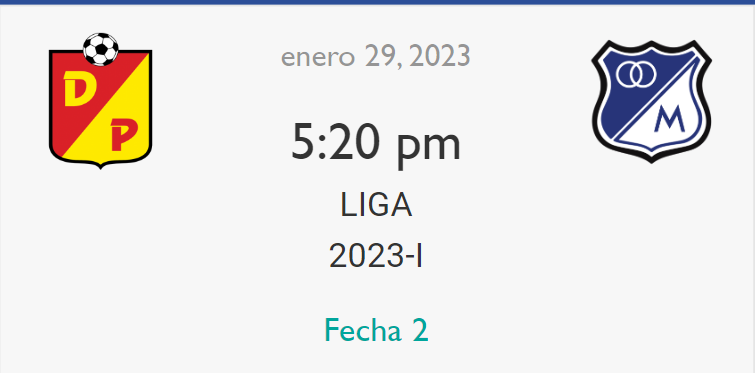
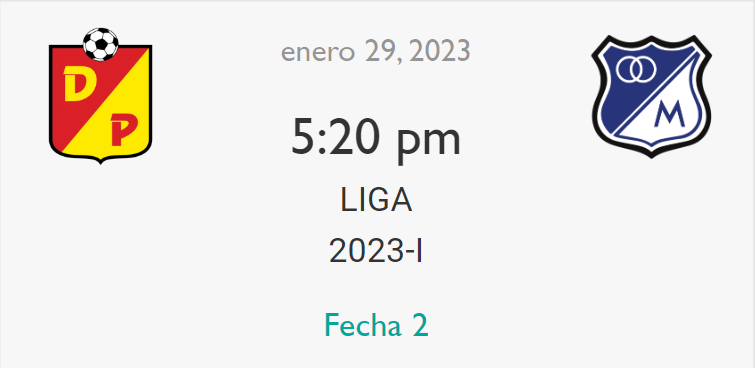
Actualización 24/01/2022 inicio de la liga

diff --git a/index.html b/index.html
@@ -4,16 +4,18 @@
     <meta charset="UTF-8">
     <meta name="viewport" content="width=device-width, initial-scale=1.0">
     <title>MILLONARIOS FC</title>
+    <link rel="website Icon" type="png" href="Imagenes/log_Millos.png">   
     <link rel="styleesheet" href="text.css">
     <link rel='stylesheet' href='https://unpkg.com/boxicons@2.0.9/css/boxicons.min.css'>
-    <link rel="stylesheet" href="/CSS/style.css">
-    <link rel="stylesheet" href="/CSS/estilos.css">
+    <link rel="stylesheet" href="CSS/style.css">
+    <link rel="stylesheet" href="CSS/estilos.css">
+    
 
 </head>
 <body>
     <!--Menu desplegable-->
     <header class="header" id="inicio">
-        <img src="/Imagenes/menu.png" alt="" class="hamburger">
+        <img src="Imagenes/menu.png" alt="" class="hamburger">
         <nav class="menu-navegacion">
             <a href="#inicio">Inicio</a>
             <a href="#historia">Historia</a>
@@ -33,7 +35,7 @@
         <section class="contenedor" id="historia">
             <h2 class="subtitulo" style="padding: 10px;">Nuestros Palmares</h2>
             <div class="contenedor-servicio">
-                <img src="../Imagenes/nomina.jpg">
+                <img src="Imagenes/plantilla2023.jpg" class="nomina">
                 <div class="checklist-servicio">
                     <div class="service">
                     <h3 class="n-service"><span class="number">15</span>Torneos Colombianos</h3>
@@ -67,21 +69,21 @@
             <div class="contenedor">
                 <h2 class="subtitulo" style="padding: 10px">Galeria</h2>
                 <div class="contenedor-galeria">
-                    <img src="/Imagenes/img10.jpg" alt="" class="img-galeria">
-                    <img src="/Imagenes/img12.jpg" alt="" class="img-galeria">
-                    <img src="/Imagenes/img11.jpg" alt="" class="img-galeria">
-                    <img src="/Imagenes/img13.jpg" alt="" class="img-galeria">
-                    <img src="/Imagenes/img14.jpg" alt="" class="img-galeria">
-                    <img src="/Imagenes/img8.jpg" alt="" class="img-galeria">
-                    <img src="/Imagenes/img7.jpg" alt="" class="img-galeria">
-                    <img src="/Imagenes/img6.jpg" alt="" class="img-galeria">
-                    <img src="/Imagenes/img9.jpg" alt="" class="img-galeria">                    
+                    <img src="Imagenes/img1.jpg" alt="" class="img-galeria">
+                    <img src="Imagenes/img2.jpg" alt="" class="img-galeria">
+                    <img src="Imagenes/img3.jpg" alt="" class="img-galeria">
+                    <img src="Imagenes/img8.jpg" alt="" class="img-galeria">
+                    <img src="Imagenes/img5.jpg" alt="" class="img-galeria">
+                    <img src="Imagenes/img7.jpg" alt="" class="img-galeria">
+                    <img src="Imagenes/img4.jpg" alt="" class="img-galeria">
+                    <img src="Imagenes/img6.jpg" alt="" class="img-galeria">
+                    <img src="Imagenes/img9.jpg" alt="" class="img-galeria">                    
                 </div>
             </div>
         </section>
         <!--Cuarta pagina prximo partido-->
         <section class="imagen-light">
-        <img src="/Imagenes/cerrar.png" alt="" class="close">
+        <img src="Imagenes/cerrar.png" alt="" class="close">
             <img src="" alt="" class="agregar-imagen">
         </section> 
         <section class="contenedor" id="proximo_partido"> 
@@ -90,22 +92,22 @@
                 <div class="cont-expert">
                     <div id="cuenta"></div>
                     <br>
-                    <img src="/Imagenes/fecha_6.png" alt="">
+                    <img src="Imagenes/fecha2_2023.png" alt="">
                 </div>   
             </section>
         </section>
-        <!--Quinta pagina ultimas fichas-->    
+        <!--Quinta pagina ultimas fechas-->    
         <section class="contenedor" id="ultima_jornada"> 
             <h2 class="subtitulo" style="padding: 10px">Ultimas 3 fechas:</h2>
             <section class="experts">
                 <div class="cont-expert">
-                    <img src="/Imagenes/fecha_5.png" alt="">
+                    <img src="Imagenes/Cuafecha6_2022.png" alt="">
                 </div>
                 <div class="cont-expert">
-                    <img src="/Imagenes/fecha_4.png" alt="">
+                    <img src="Imagenes/Cuafecha5_2022.png" alt="">
                 </div>
                 <div class="cont-expert">
-                    <img src="/Imagenes/fecha_3.png" alt="">
+                    <img src="Imagenes/Cuafecha4_2022.png" alt="">
                 </div>
             </section>
         </section>
@@ -135,10 +137,10 @@
         <div class="line"></div>
     </footer>
     <!--Script-->
-    <script src="/JS/menu.js"></script>
-    <script src="/JS/lighbox.js"></script>
+    <script src="JS/menu.js"></script>
+    <script src="JS/lighbox.js"></script>
     <script src="https://kit.fontawesome.com/2c36e9b7b1.js" crossorigin="anonymous"></script>
-	<script src="/JS/simplyCountdown.min.js"></script>
-	<script src="/JS/countdown.js"></script>
+	<script src="JS/simplyCountdown.min.js"></script>
+	<script src="JS/countdown.js"></script>
 </body>
 </html>

diff --git a/JS/countdown.js b/JS/countdown.js
@@ -1,9 +1,9 @@
 simplyCountdown('#cuenta', {
-	year: 2022, // required
-	month: 11, // required
-	day: 30, // required
-	hours: 15, // Default is 0 [0-23] integer
-	minutes: 35, // Default is 0 [0-59] integer
+	year: 2023, // required
+	month: 1, // required
+	day: 29, // required
+	hours: 12, // Default is 0 [0-23] integer
+	minutes: 20, // Default is 0 [0-59] integer
 	seconds: 0, // Default is 0 [0-59] integer
 	words: { //words displayed into the countdown
 		days: 'Día',

diff --git a/CSS/style.css b/CSS/style.css
@@ -135,6 +135,9 @@ header{/*Imagen y fondo primera pagina*/
 .gallery{/*Fondo galeria*/
     background: #f2f2f2;
 }
+.nomina{
+ border-radius: 1%;
+}
 
 .contenedor-galeria{
     display: flex;
